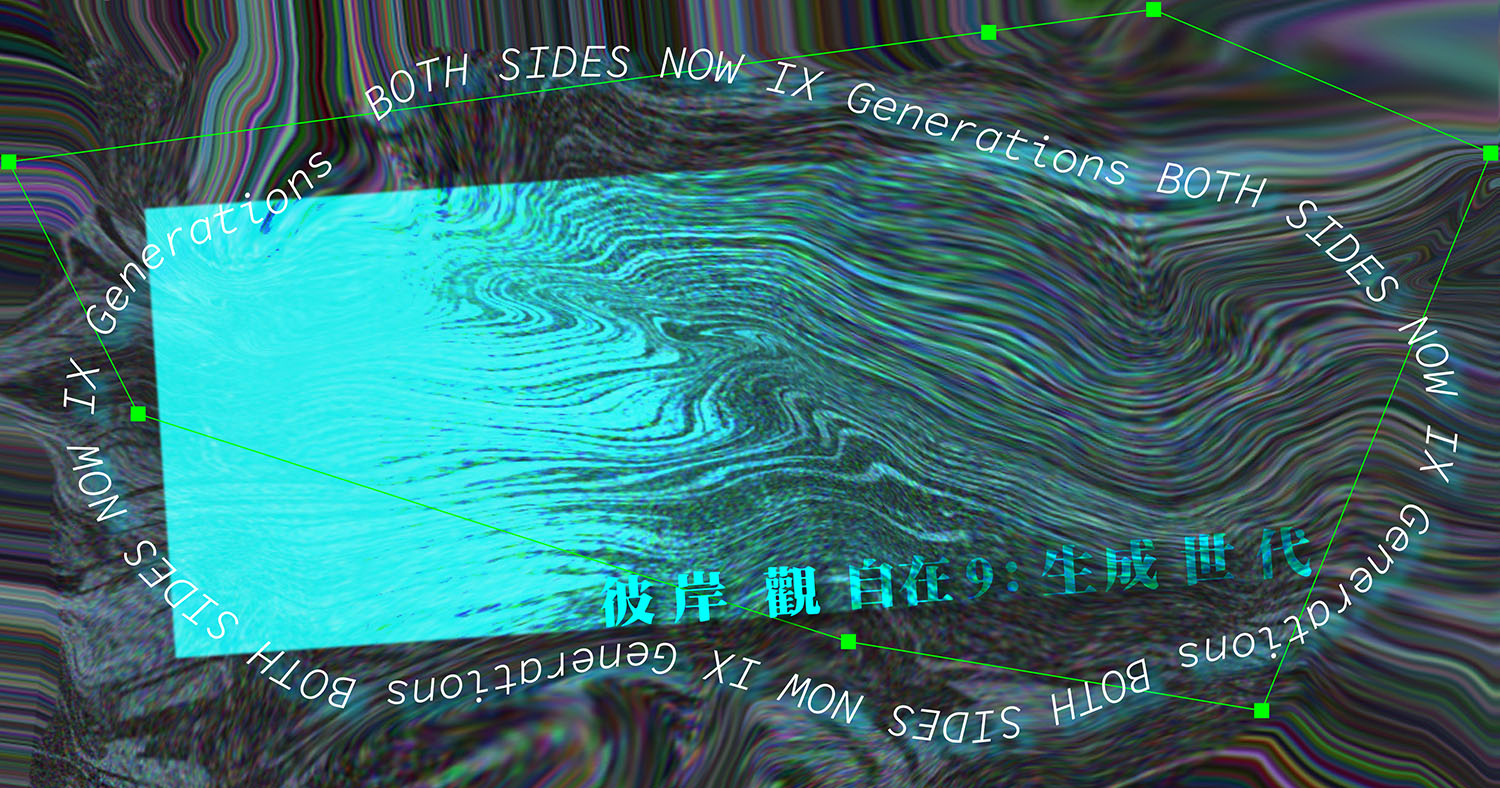
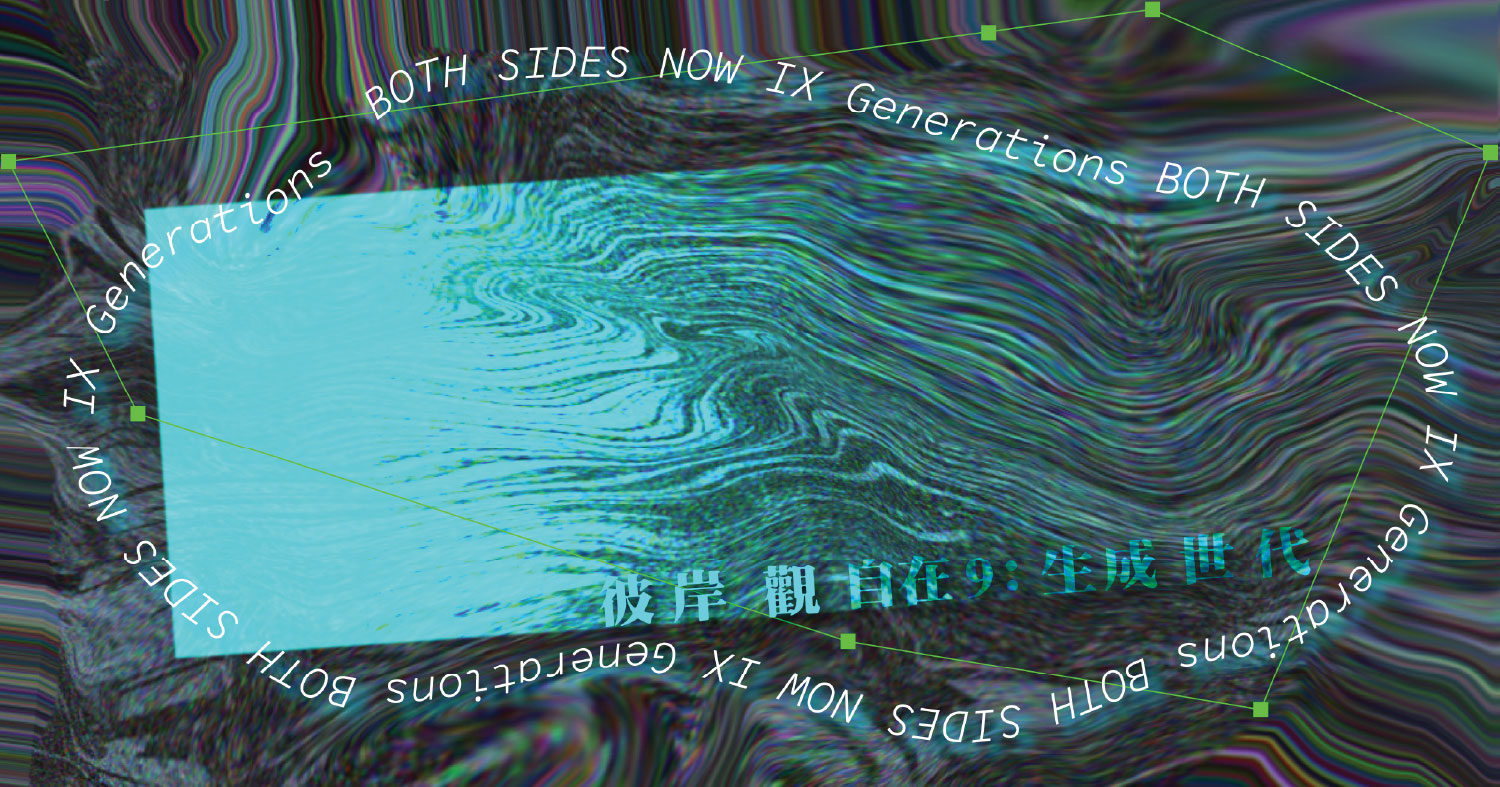
+

diff --git a/CSS/newStyle.css b/CSS/newStyle.css
@@ -114,7 +114,14 @@
            z-index: 20;
            line-height: 1.6;
            letter-spacing: 0.1vw;
+           white-space: normal;
+           /* 確保維持正常折行 */
+           word-break: break-all;
+           /* 遇到網址或長英文單字時強制截斷折行 */
+           overflow-wrap: break-word;
+           /* 支援現代瀏覽器的安全折行 */
        }
+
 
        .slider-caption a {
            font-size: clamp(10px, 1vw, 10.5px);
@@ -142,11 +149,14 @@
            line-height: 1.6;
            letter-spacing: 0.1vw;
            text-shadow: none;
+           white-space: normal;
+           word-break: break-all;
+           overflow-wrap: break-word;
        }
 
        .slider-caption-black a {
            font-size: clamp(10px, 1vw, 10.5px);
-           color: rgb(255, 255, 255);
+           color: rgb(0, 0, 0);
            z-index: 20;
            text-decoration: none;
        }
@@ -235,6 +245,30 @@
                color: #000000;
            }
        }
+
+       @media screen and (max-width: 768px) {
+
+           .slider-caption,
+           .slider-caption-black {
+               /* 1. 放大寬度，讓手機版文字有更多延伸空間 */
+               width: 92%;
+               /* 2. 在手機上寫死固定字級，避免 clamp() 縮得太小（建議不小於 12px） */
+               font-size: 10px;
+               /* 3. 改用 px 固定間距，防止手機上字體過度緊縮 */
+               letter-spacing: 0.5px;
+               /* 4. 微調間距，讓手機排版更好看 */
+               margin: 15px auto 0;
+           }
+
+           /* 同步更新超連結的字體大小 */
+           .slider-caption a,
+           .slider-caption a:hover,
+           .slider-caption-black a,
+           .slider-caption-black a:hover {
+               font-size: 10px;
+           }
+       }
+
 
        /* ====================================================== */
        .slider-cover {

diff --git a/site_design/ppp.html b/site_design/ppp.html
@@ -50,14 +50,8 @@
                 洗水標籤, 4 x 13 厘米
             </p>
             <div class="slider-wrapper">
-                <img src="/works_design/ppp1.jpg" alt="slide1">
+                <img src="/works_design/ppp0.jpg" alt="slide1">
             </div>
-        </div>
-
-
-        <div style="padding-top: 0%; padding-bottom: 5%; width: 100%;">
-            <img src="/works_design/ppp3.jpg" alt="slide1"
-                style="width: 85vw; max-width: none; position: relative; left: 50%; transform: translateX(-50%); height: auto; display: block;">
         </div>
 
 

diff --git a/site_design/ghostHorses.html b/site_design/ghostHorses.html
@@ -29,7 +29,8 @@
         <b>Visual Design for</b><br>
         <u>Exhibition:</u>
         <a href="https://www.videotage.org.hk/programme/janne-schimmel-story-machines-case-mods-and-ghost-horses"
-            target="_blank">Janne Schimmel: Story Machines, Case Mods and Ghost Horses |
+            target="_blank"><br>
+            Janne Schimmel: Story Machines, Case Mods and Ghost Horses <br>
             雅內．希梅爾：整鬼整馬</a><br>
         <u>Date:</u> 18 June, 2025 – 20 July, 2025<br>
         <br>

diff --git a/index.html b/index.html
@@ -254,7 +254,7 @@
 
 
 <footer>
-    <p>Copyright © 2025 Museum Trap | All Rights Reserved</p>
+    <p>Copyright © 2026 Museum Trap | All Rights Reserved</p>
 </footer>
 
 </html>

diff --git a/site_design/vmac.html b/site_design/vmac.html
@@ -104,7 +104,7 @@
             <a href="https://www.videotage.org.hk/programme/vmac-forum-early-experimental-film-and-alternative-cultural-practices-in-hong-kong-in-the-1960s-and-1970s-vmac%E8%AB%96%E5%A3%87%EF%BC%9A%E9%A6%99%E6%B8%AF%E6%97%A9%E6%9C%9F%E5%AF%A6%E9%A9%97"
                 target="_blank"> <br>
                 Early Experimental Film and Alternative Cultural Practices <br>in Hong Kong in the 1960s and 1970s<br>
-                >VMAC論壇：香港早期實驗影像及六七十年代的另類文化實踐</a><br>
+                VMAC論壇：香港早期實驗影像及六七十年代的另類文化實踐</a><br>
             <u>Date:</u> 24 June, 2024<br>
             <br>
             <u>Presented by:</u> Videotage, Hong Kong<br>